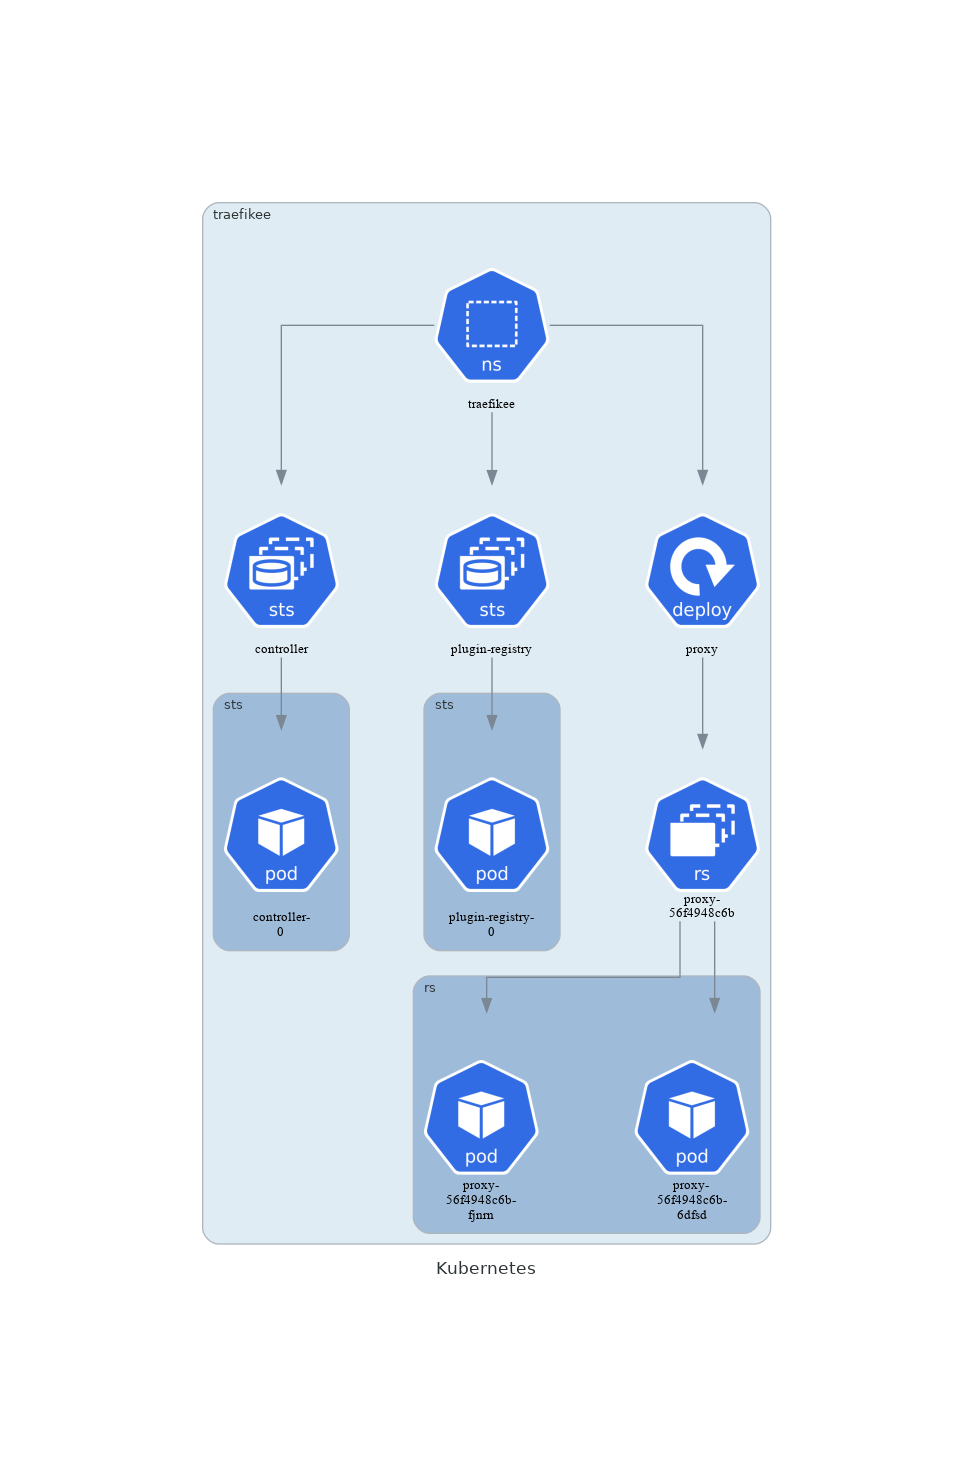
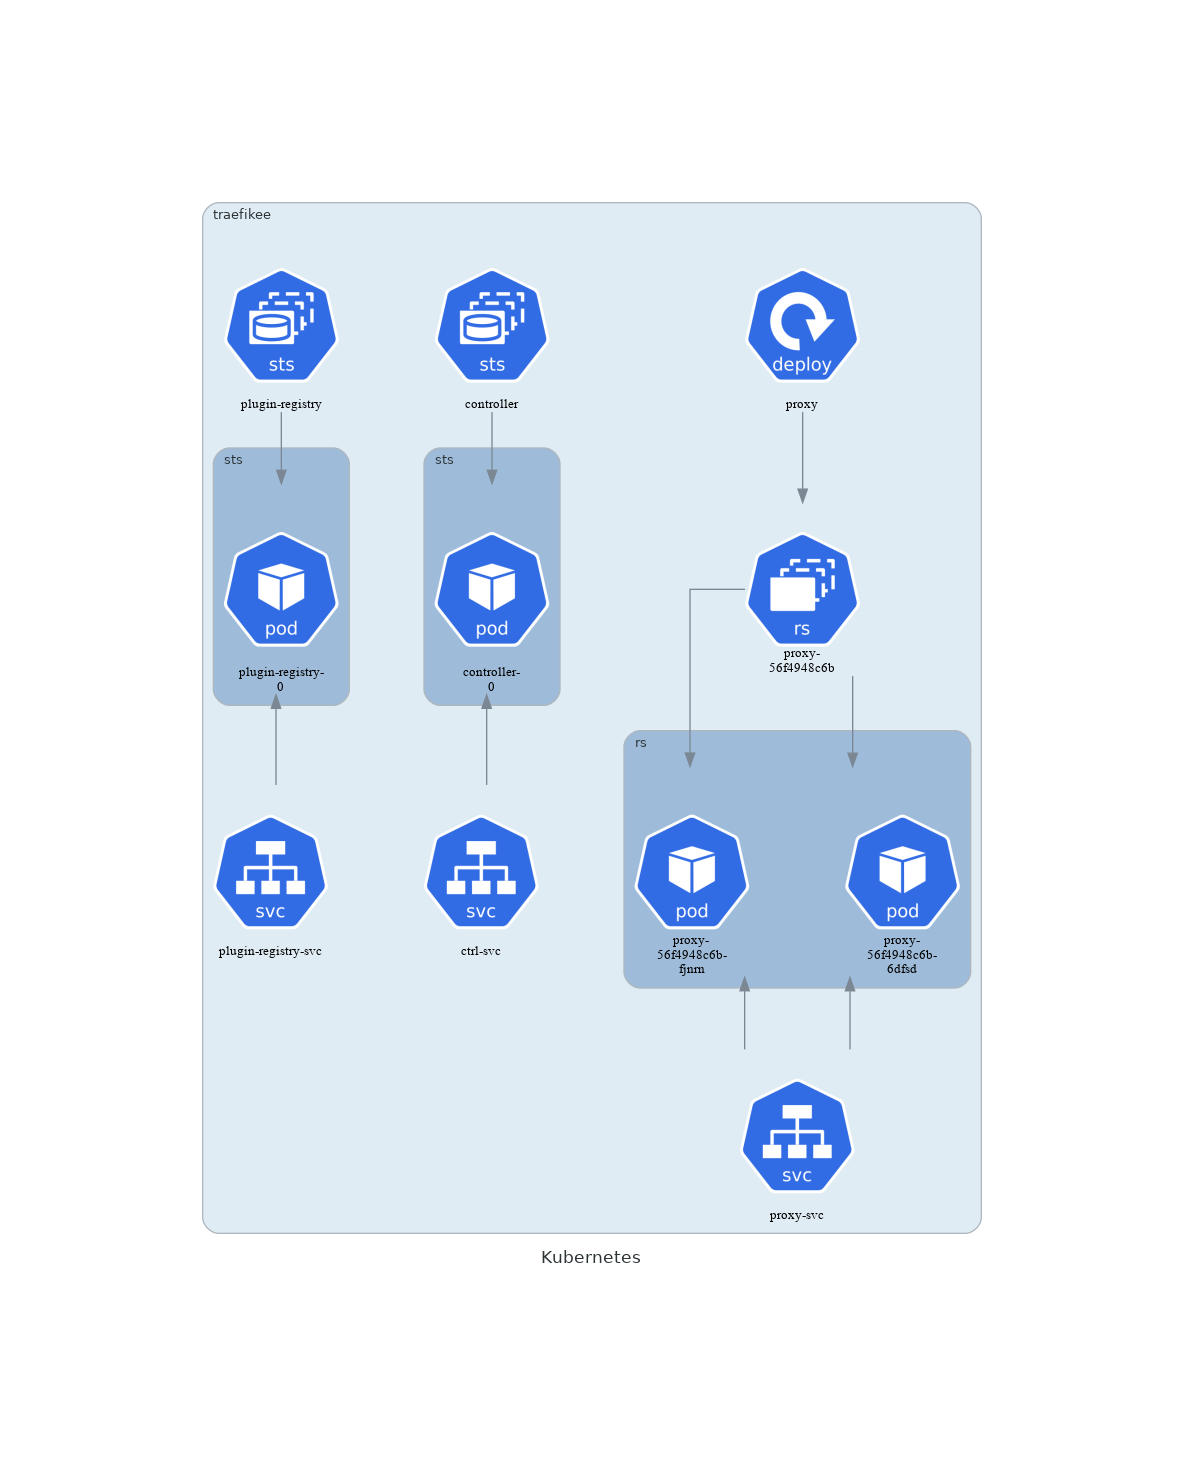
feat: add (internal) services

Changed region(s): [[0.1542, 0.1229, 0.8325, 0.8601], [0.6166, 0.1843, 0.74, 0.2765]]

diff --git a/pkg/diagram/objects.go b/pkg/diagram/objects.go
@@ -25,7 +25,7 @@ func (d *Diagram) GenerateDeployments(namespace string, o *appsv1.DeploymentList
 			diagram.SetFontOptions(diagram.Font{Size: nodeFontSize}),
 			diagram.Width(nodeWidth),
 		)
-		d.namespaceGroups[namespace].Add(d.deployments[v.Name]).Connect(d.namespaces[namespace], d.deployments[v.Name])
+		d.namespaceGroups[namespace].Add(d.deployments[v.Name])
 	}
 }
 
@@ -47,7 +47,7 @@ func (d *Diagram) GenerateDaemonSets(namespace string, o *appsv1.DaemonSetList) 
 			o.BackgroundColor = setColor
 		}).Label("ds")
 		d.namespaceGroups[namespace].Group(d.daemonSetGroups[v.Name])
-		d.namespaceGroups[namespace].Add(d.daemonSets[v.Name]).Connect(d.namespaces[namespace], d.daemonSets[v.Name])
+		d.namespaceGroups[namespace].Add(d.daemonSets[v.Name])
 	}
 }
 
@@ -99,7 +99,7 @@ func (d *Diagram) GenerateStatefulSets(namespace string, o *appsv1.StatefulSetLi
 			o.BackgroundColor = setColor
 		}).Label("sts")
 		d.namespaceGroups[namespace].Group(d.statefulSetGroups[v.Name])
-		d.namespaceGroups[namespace].Add(d.statefulSets[v.Name]).Connect(d.namespaces[namespace], d.statefulSets[v.Name])
+		d.namespaceGroups[namespace].Add(d.statefulSets[v.Name])
 	}
 }
 
@@ -109,7 +109,7 @@ func (d *Diagram) GeneratePods(namespace string, o *corev1.PodList) {
 			continue
 		}
 
-		pod := k8s.Compute.Pod(
+		d.pods[v.Name] = k8s.Compute.Pod(
 			diagram.NodeLabel(v.Name),
 			diagram.SetFontOptions(diagram.Font{Size: nodeFontSize}),
 			diagram.Width(nodeWidth),
@@ -119,22 +119,76 @@ func (d *Diagram) GeneratePods(namespace string, o *corev1.PodList) {
 			for _, o := range v.GetOwnerReferences() {
 				switch strings.ToLower(o.Kind) {
 				case "daemonset":
-					d.daemonSetGroups[o.Name].Add(pod)
-					d.namespaceGroups[namespace].Connect(d.daemonSets[o.Name], pod)
-					pod.Label(o.Name + "-\\n" + strings.TrimPrefix(v.Name, o.Name+"-"))
+					d.daemonSetGroups[o.Name].Add(d.pods[v.Name])
+					d.namespaceGroups[namespace].Connect(d.daemonSets[o.Name], d.pods[v.Name])
+					d.pods[v.Name].Label(o.Name + "-\\n" + strings.TrimPrefix(v.Name, o.Name+"-"))
 				case "replicaset":
-					d.replicaSetGroups[o.Name].Add(pod)
-					d.namespaceGroups[namespace].Connect(d.replicaSets[o.Name], pod)
-					pod.Label(d.replicaSets[o.Name].Options.Label + "-\\n" + strings.TrimPrefix(v.Name, o.Name+"-"))
+					d.replicaSetGroups[o.Name].Add(d.pods[v.Name])
+					d.namespaceGroups[namespace].Connect(d.replicaSets[o.Name], d.pods[v.Name])
+					d.pods[v.Name].Label(d.replicaSets[o.Name].Options.Label + "-\\n" + strings.TrimPrefix(v.Name, o.Name+"-"))
 				case "statefulset":
-					d.statefulSetGroups[o.Name].Add(pod)
-					d.namespaceGroups[namespace].Connect(d.statefulSets[o.Name], pod)
-					pod.Label(o.Name + "-\\n" + strings.TrimPrefix(v.Name, o.Name+"-"))
+					d.statefulSetGroups[o.Name].Add(d.pods[v.Name])
+					d.namespaceGroups[namespace].Connect(d.statefulSets[o.Name], d.pods[v.Name])
+					d.pods[v.Name].Label(o.Name + "-\\n" + strings.TrimPrefix(v.Name, o.Name+"-"))
 				default:
 				}
 			}
 		} else {
-			d.namespaceGroups[namespace].Add(pod)
+			d.namespaceGroups[namespace].Add(d.pods[v.Name])
 		}
+	}
+}
+
+func (d *Diagram) GenerateServicePodsLinks(namespace string, service string, endpoints *corev1.EndpointsList) {
+	for _, ep := range endpoints.Items {
+		if ep.Namespace != namespace {
+			continue
+		}
+
+		if service != ep.Name {
+			continue
+		}
+
+		for _, subset := range ep.Subsets {
+			for _, address := range subset.Addresses {
+				if address.TargetRef == nil {
+					continue
+				}
+
+				if strings.ToLower(address.TargetRef.Kind) != "pod" {
+					continue
+				}
+
+				d.namespaceGroups[namespace].Connect(d.pods[address.TargetRef.Name], d.services[service], diagram.Reverse())
+			}
+		}
+	}
+}
+
+func (d *Diagram) GenerateServices(namespace string, services *corev1.ServiceList, endpoints *corev1.EndpointsList) {
+	for _, svc := range services.Items {
+		if svc.Namespace != namespace {
+			continue
+		}
+
+		d.services[svc.Name] = k8s.Network.Svc(
+			diagram.NodeLabel(svc.Name),
+			diagram.SetFontOptions(diagram.Font{Size: nodeFontSize}),
+			diagram.Width(nodeWidth),
+		)
+		d.namespaceGroups[namespace].Add(d.services[svc.Name])
+
+		d.GenerateServicePodsLinks(namespace, svc.Name, endpoints)
+
+		// for _, lb := range svc.Status.LoadBalancer.Ingress {
+		// 	var publicIPName string
+		// 	if lb.IP != "" {
+		// 		publicIPName = lb.IP
+		// 	} else if lb.Hostname != "" {
+		// 		publicIPName = lb.Hostname
+		// 	}
+
+		// 	fmt.Printf("svc: %s, public access: %#v\n", svc.Name, publicIPName)
+		// }
 	}
 }

diff --git a/pkg/discovery/discovery.go b/pkg/discovery/discovery.go
@@ -13,19 +13,19 @@ import (
 )
 
 type Objects struct {
-	ConfigMaps             *corev1.ConfigMapList             `json:"configmaps"`
-	Endpoints              *corev1.EndpointsList             `json:"endpoints"`
-	Namespaces             *corev1.NamespaceList             `json:"namespaces"`
-	Pods                   *corev1.PodList                   `json:"pods"`
-	PersistentVolumes      *corev1.PersistentVolumeList      `json:"persistentvolumes"`
-	PersistentVolumeClaims *corev1.PersistentVolumeClaimList `json:"persistentvolumeclaims"`
-	Secrets                *corev1.SecretList                `json:"secrets"`
-	Services               *corev1.ServiceList               `json:"services"`
-	DaemonSets             *appsv1.DaemonSetList             `json:"daemonsets"`
-	Deployments            *appsv1.DeploymentList            `json:"deployments"`
-	ReplicaSets            *appsv1.ReplicaSetList            `json:"replicasets"`
-	StatefulSets           *appsv1.StatefulSetList           `json:"statefulsets"`
-	Ingresses              *networkingv1.IngressList         `json:"ingresses"`
+	ConfigMaps             *corev1.ConfigMapList
+	Endpoints              *corev1.EndpointsList
+	Namespaces             *corev1.NamespaceList
+	Pods                   *corev1.PodList
+	PersistentVolumes      *corev1.PersistentVolumeList
+	PersistentVolumeClaims *corev1.PersistentVolumeClaimList
+	Secrets                *corev1.SecretList
+	Services               *corev1.ServiceList
+	DaemonSets             *appsv1.DaemonSetList
+	Deployments            *appsv1.DeploymentList
+	ReplicaSets            *appsv1.ReplicaSetList
+	StatefulSets           *appsv1.StatefulSetList
+	Ingresses              *networkingv1.IngressList
 }
 
 type Discovery struct {
@@ -88,12 +88,12 @@ func (k *Discovery) generateCore(namespace string) error {
 
 	// k.objects.ConfigMaps = cm
 
-	// ep, err := k.client.CoreV1().Endpoints(namespace).List(k.ctx, metav1.ListOptions{})
-	// if err != nil {
-	// 	return fmt.Errorf("getting endpoints: %w", err)
-	// }
+	ep, err := k.client.CoreV1().Endpoints(namespace).List(k.ctx, metav1.ListOptions{})
+	if err != nil {
+		return fmt.Errorf("getting endpoints: %w", err)
+	}
 
-	// k.objects.Endpoints = ep
+	k.objects.Endpoints = ep
 
 	po, err := k.client.CoreV1().Pods(namespace).List(k.ctx, metav1.ListOptions{})
 	if err != nil {
@@ -120,12 +120,12 @@ func (k *Discovery) generateCore(namespace string) error {
 	// 	return err
 	// }
 
-	// svc, err := k.client.CoreV1().Services(namespace).List(k.ctx, metav1.ListOptions{})
-	// if err != nil {
-	// 	return fmt.Errorf("getting services: %w", err)
-	// }
+	svc, err := k.client.CoreV1().Services(namespace).List(k.ctx, metav1.ListOptions{})
+	if err != nil {
+		return fmt.Errorf("getting services: %w", err)
+	}
 
-	// k.objects.Services = svc
+	k.objects.Services = svc
 
 	return nil
 }

diff --git a/pkg/diagram/diagram.go b/pkg/diagram/diagram.go
@@ -5,7 +5,6 @@ import (
 
 	"github.com/Trois-Six/k8s-diagrams/pkg/discovery"
 	"github.com/blushft/go-diagrams/diagram"
-	"github.com/blushft/go-diagrams/nodes/k8s"
 )
 
 const (
@@ -17,13 +16,15 @@ const (
 type Diagram struct {
 	filename          string
 	outputDir         string
-	namespaces        map[string]*diagram.Node
 	namespaceGroups   map[string]*diagram.Group
 	daemonSets        map[string]*diagram.Node
 	daemonSetGroups   map[string]*diagram.Group
 	deployments       map[string]*diagram.Node
+	endpoints         map[string]*diagram.Node
+	pods              map[string]*diagram.Node
 	replicaSets       map[string]*diagram.Node
 	replicaSetGroups  map[string]*diagram.Group
+	services          map[string]*diagram.Node
 	statefulSets      map[string]*diagram.Node
 	statefulSetGroups map[string]*diagram.Group
 	diag              *diagram.Diagram
@@ -46,13 +47,15 @@ func NewDiagram(outputDir, filename, label string) (*Diagram, error) {
 	return &Diagram{
 		filename:          filename,
 		outputDir:         outputDir,
-		namespaces:        make(map[string]*diagram.Node),
 		namespaceGroups:   make(map[string]*diagram.Group),
 		daemonSets:        make(map[string]*diagram.Node),
 		daemonSetGroups:   make(map[string]*diagram.Group),
+		endpoints:         make(map[string]*diagram.Node),
 		deployments:       make(map[string]*diagram.Node),
+		pods:              make(map[string]*diagram.Node),
 		replicaSets:       make(map[string]*diagram.Node),
 		replicaSetGroups:  make(map[string]*diagram.Group),
+		services:          make(map[string]*diagram.Node),
 		statefulSets:      make(map[string]*diagram.Node),
 		statefulSetGroups: make(map[string]*diagram.Group),
 		diag:              d,
@@ -65,19 +68,12 @@ func (d *Diagram) GenerateDiagram(namespace string, o *discovery.Objects) {
 			continue
 		}
 
-		d.namespaces[ns.Name] = k8s.Group.Ns(
-			diagram.NodeLabel(ns.Name),
-			diagram.SetFontOptions(diagram.Font{Size: nodeFontSize}),
-			diagram.Width(nodeWidth),
-		)
-
 		d.namespaceGroups[ns.Name] = diagram.NewGroup(ns.Name, func(o *diagram.GroupOptions) {
 			o.Font = diagram.Font{
 				Size: groupFontSize,
 			}
 			o.BackgroundColor = "#E0ECF4"
 		}).Label(ns.Name)
-		d.namespaceGroups[ns.Name].Add(d.namespaces[ns.Name])
 		d.diag.Group(d.namespaceGroups[ns.Name])
 
 		d.GenerateDeployments(namespace, o.Deployments)
@@ -85,6 +81,7 @@ func (d *Diagram) GenerateDiagram(namespace string, o *discovery.Objects) {
 		d.GenerateReplicaSets(namespace, o.ReplicaSets)
 		d.GenerateStatefulSets(namespace, o.StatefulSets)
 		d.GeneratePods(namespace, o.Pods)
+		d.GenerateServices(namespace, o.Services, o.Endpoints)
 	}
 }
 
